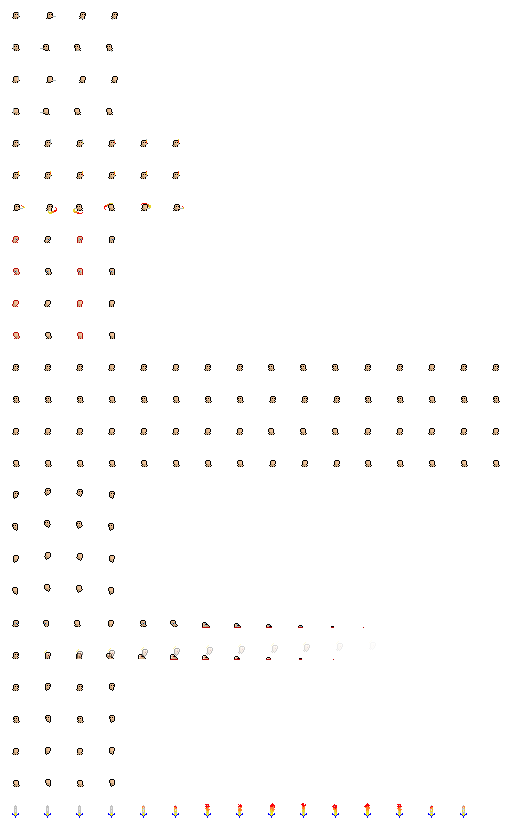
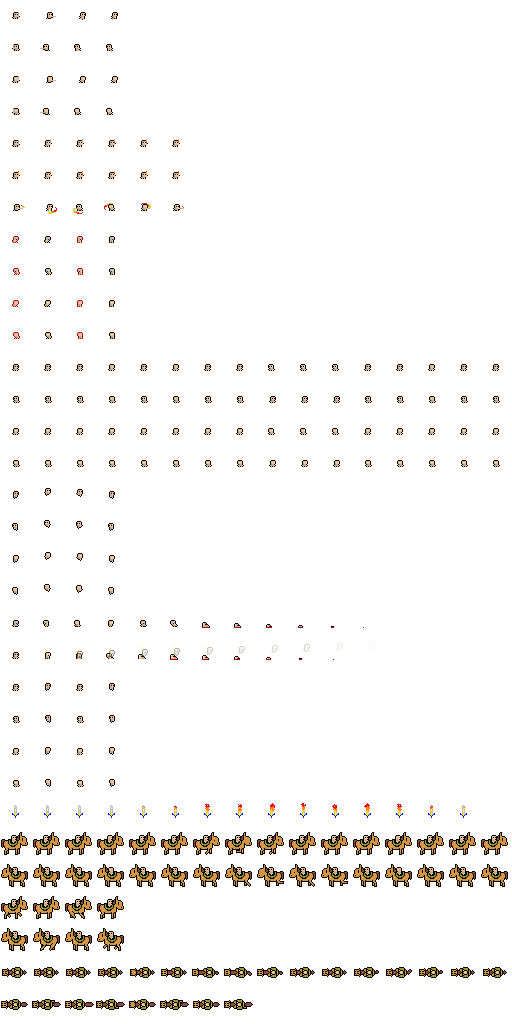
Horse movement, hitbox, movebox, switch ride/walk

diff --git a/Project_2/Player.cpp b/Project_2/Player.cpp
@@ -37,6 +37,16 @@ void Player::setAnimation() {
     for (const auto& Idle : IdleMap) {
         m_animationController.addAnimation(Idle.first, Idle.second.first, Idle.second.second, 0.31111f);
     }
+
+    m_animationController.addAnimation("FrontIdleRiding_R", 416, 16, 0.13f);
+    m_animationController.addAnimation("FrontIdleRiding_L", 432, 16, 0.13f);
+    m_animationController.addAnimation("FrontRiding_R", 448, 4, 0.13f);
+    m_animationController.addAnimation("FrontRiding_L", 464, 4, 0.13f);
+
+    m_animationController.addAnimation("IdleRide", 480, 16, 0.13f);
+    m_animationController.addAnimation("Ride", 496, 8, 0.13f);
+
+
     m_animationController.addAnimation("Die", 320, 12, 0.13f);
     timeAnimationDie = 12 * 0.13f;
 
@@ -48,30 +58,28 @@ void Player::drawGestion(sf::RenderWindow& window, bool debugMode) {
         m_movebox.setFillColor(sf::Color::Green);
         window.draw(m_movebox);
     }
-    
     if (m_direction.down) {
         draw(window, debugMode);
-        if (isAlive())
-            if (!m_riding)
-                m_sword.draw(window, debugMode);
+        if (isAlive() && !m_riding && m_rideDuration < m_rideTime)
+            m_sword.draw(window, debugMode);
+        
+        
     }
     else {
+        
+        if (isAlive() && !m_riding && m_rideDuration < m_rideTime)
+            m_sword.draw(window, debugMode);
         draw(window, debugMode);
-        if (isAlive())
-            if (!m_riding)
-                m_sword.draw(window, debugMode);
-            
     }
-    
 }
 
 void Player::draw(sf::RenderWindow& window, bool debugMode)
 {
-    sf::RenderStates states;
-    states.transform = m_transform;
-    // Draw entity
-    window.draw(m_sprite, states);
-
+    //sf::RenderStates states;
+    //states.transform = m_transform;
+    //// Draw entity
+    //window.draw(m_sprite, states);
+    window.draw(m_sprite);
     // Draw boundingBox
     if (debugMode) {
         sf::FloatRect boundingBox = getBoundingBox();
@@ -97,21 +105,39 @@ void Player::changeSprite() {
     std::string base = "";
 
     if (m_velocity.x != 0 || m_velocity.y != 0)
-        base = "Walk";
-    else
+    {
+        if (m_riding && m_rideDuration < m_rideTime) {
+            base = "Ride";
+        }
+        else {
+            base = "Walk";
+        }
+    }
+    else {
         base = "Idle";
+        if (m_riding && m_rideDuration < m_rideTime)
+            base.append("Ride");
+    }
 
     std::string dir = "";
-    if (m_direction.up)
-        dir += "U";
-    else if (m_direction.down)
-        dir += "D";
-    if (m_direction.right)
-        dir += "R";
-    else if (m_direction.left)
-        dir += "L";
-
-    std::string name = base + "_" + dir;
+    if(!m_riding || m_rideDuration > m_rideTime) 
+    {
+        if (m_direction.up)
+            dir += "U";
+        else if (m_direction.down)
+            dir += "D";
+        if (m_direction.right)
+            dir += "R";
+        else if (m_direction.left)
+            dir += "L";
+    }
+    
+    std::string name = "";
+    if (!m_riding || m_rideDuration > m_rideTime)
+       name = base + "_" + dir;
+    else
+       name = base;
+    
     m_animationController.changeCurrentAnim(name);
 }
 
@@ -121,7 +147,6 @@ void Player::update(sf::Time deltaTime, std::vector<sf::FloatRect>& listOfElemen
     {
         m_movement = { 0.f, 0.f };
         if (m_attack) {
-            
             m_attack = m_sword.isHitting();
         }
 
@@ -143,22 +168,31 @@ void Player::update(sf::Time deltaTime, std::vector<sf::FloatRect>& listOfElemen
         {
             if (m_riding) {
                 float vecAngle = (m_movement.x == 0.f) ? 0 : (m_movement.x < 0) ? -m_rotationSpeed * deltaTime.asSeconds() : m_rotationSpeed * deltaTime.asSeconds();
-                vecAngle = fmod(m_sprite.getRotation() + 90 + vecAngle, 360);
-                /*m_sprite.setOrigin(sf::Vector2f(16, 16));
+                vecAngle = fmod(m_sprite.getRotation() + vecAngle, 360);
+                float radAngle = (vecAngle * 3.141592653589793238463) / 180;
+                m_sprite.setRotation(vecAngle);
+
+               /* sf::Vector2f pos = getPosition();
+                float HalfSpriteWidth = m_sprite.getScale().x / 2;
+                float HalfSpriteHeight = m_sprite.getScale().y / 2;
+                float spriteX = pos.x - HalfSpriteWidth * cos(radAngle) + HalfSpriteHeight * sin(radAngle);
+                float spriteY = pos.y - HalfSpriteHeight * cos(radAngle) - HalfSpriteWidth * sin(radAngle);
+                m_sprite.setPosition(spriteX, spriteY);*/
+
+
+               /* m_sprite.setOrigin(sf::Vector2f(16, 16));
                 m_sprite.setRotation(vecAngle-90);
-                m_sprite.setOrigin(sf::Vector2f(12, 12));*/
-                sf::Vector2f center = getCenter();
-                m_transform.rotate(vecAngle-90, center.x, center.y);
+                m_sprite.setOrigin(sf::Vector2f(-4, -4));*/
+ 
                 
-                sf::Vector2f pos = getPosition();
+                //sf::Vector2f center = getCenter();
+                // m_transform.rotate(vecAngle-90, center.x, center.y);
+                
                 m_movement.x = cos(vecAngle * 3.141592653589793238463 / 180)  * m_movement.y;
                 m_movement.y = sin(vecAngle * 3.141592653589793238463 / 180) * m_movement.y;
-                
-                sf::Vector2f test = m_movement * m_speed;
-                std::cout << "x : " << m_movement.x << " y : " << m_movement.y << std::endl;
+               
                 addForce(m_movement * m_speed);
             } else {
-                
                 addForce(Utils::normalize(m_movement) * m_speed);
             }
            
@@ -194,7 +228,11 @@ void Player::update(sf::Time deltaTime, std::vector<sf::FloatRect>& listOfElemen
 }
 
 sf::FloatRect Player::getBoundingBox() {
+    if(!m_riding)
         return sf::FloatRect(getPosition().x, getPosition().y, m_size.x, m_size.y);
+    else {
+        return sf::FloatRect(getPosition().x + m_horseHitBox.left, getPosition().y + m_horseHitBox.top, m_horseHitBox.width, m_horseHitBox.height);
+    }
 }
 
 void Player::takeDamage(float damage)
@@ -253,11 +291,13 @@ sf::FloatRect Player::intersects(std::vector<sf::FloatRect>& listOfElements, sf:
 
     sf::FloatRect playerPos = getBoundingBox();
     sf::FloatRect futurePos = playerPos;
-
-    futurePos.left += m_walkingBox.left;
-    futurePos.top += m_walkingBox.top;
-    futurePos.width = m_walkingBox.width;
-    futurePos.height = m_walkingBox.height;
+    if (!m_riding) {
+        futurePos.left += m_walkingBox.left;
+        futurePos.top += m_walkingBox.top;
+        futurePos.width = m_walkingBox.width;
+        futurePos.height = m_walkingBox.height;
+    }
+    
     
     for (const sf::FloatRect& bound : listOfElements) {
 

diff --git a/Project_2/Player.h b/Project_2/Player.h
@@ -57,6 +57,7 @@ private:
 	Inventaire m_inventaire;
 
 	const sf::FloatRect m_walkingBox = sf::FloatRect(1, 6, 6, 2);
+	const sf::FloatRect m_horseHitBox = sf::FloatRect(-6, -5, 13, 12);
 
 	bool m_riding = false;
 
